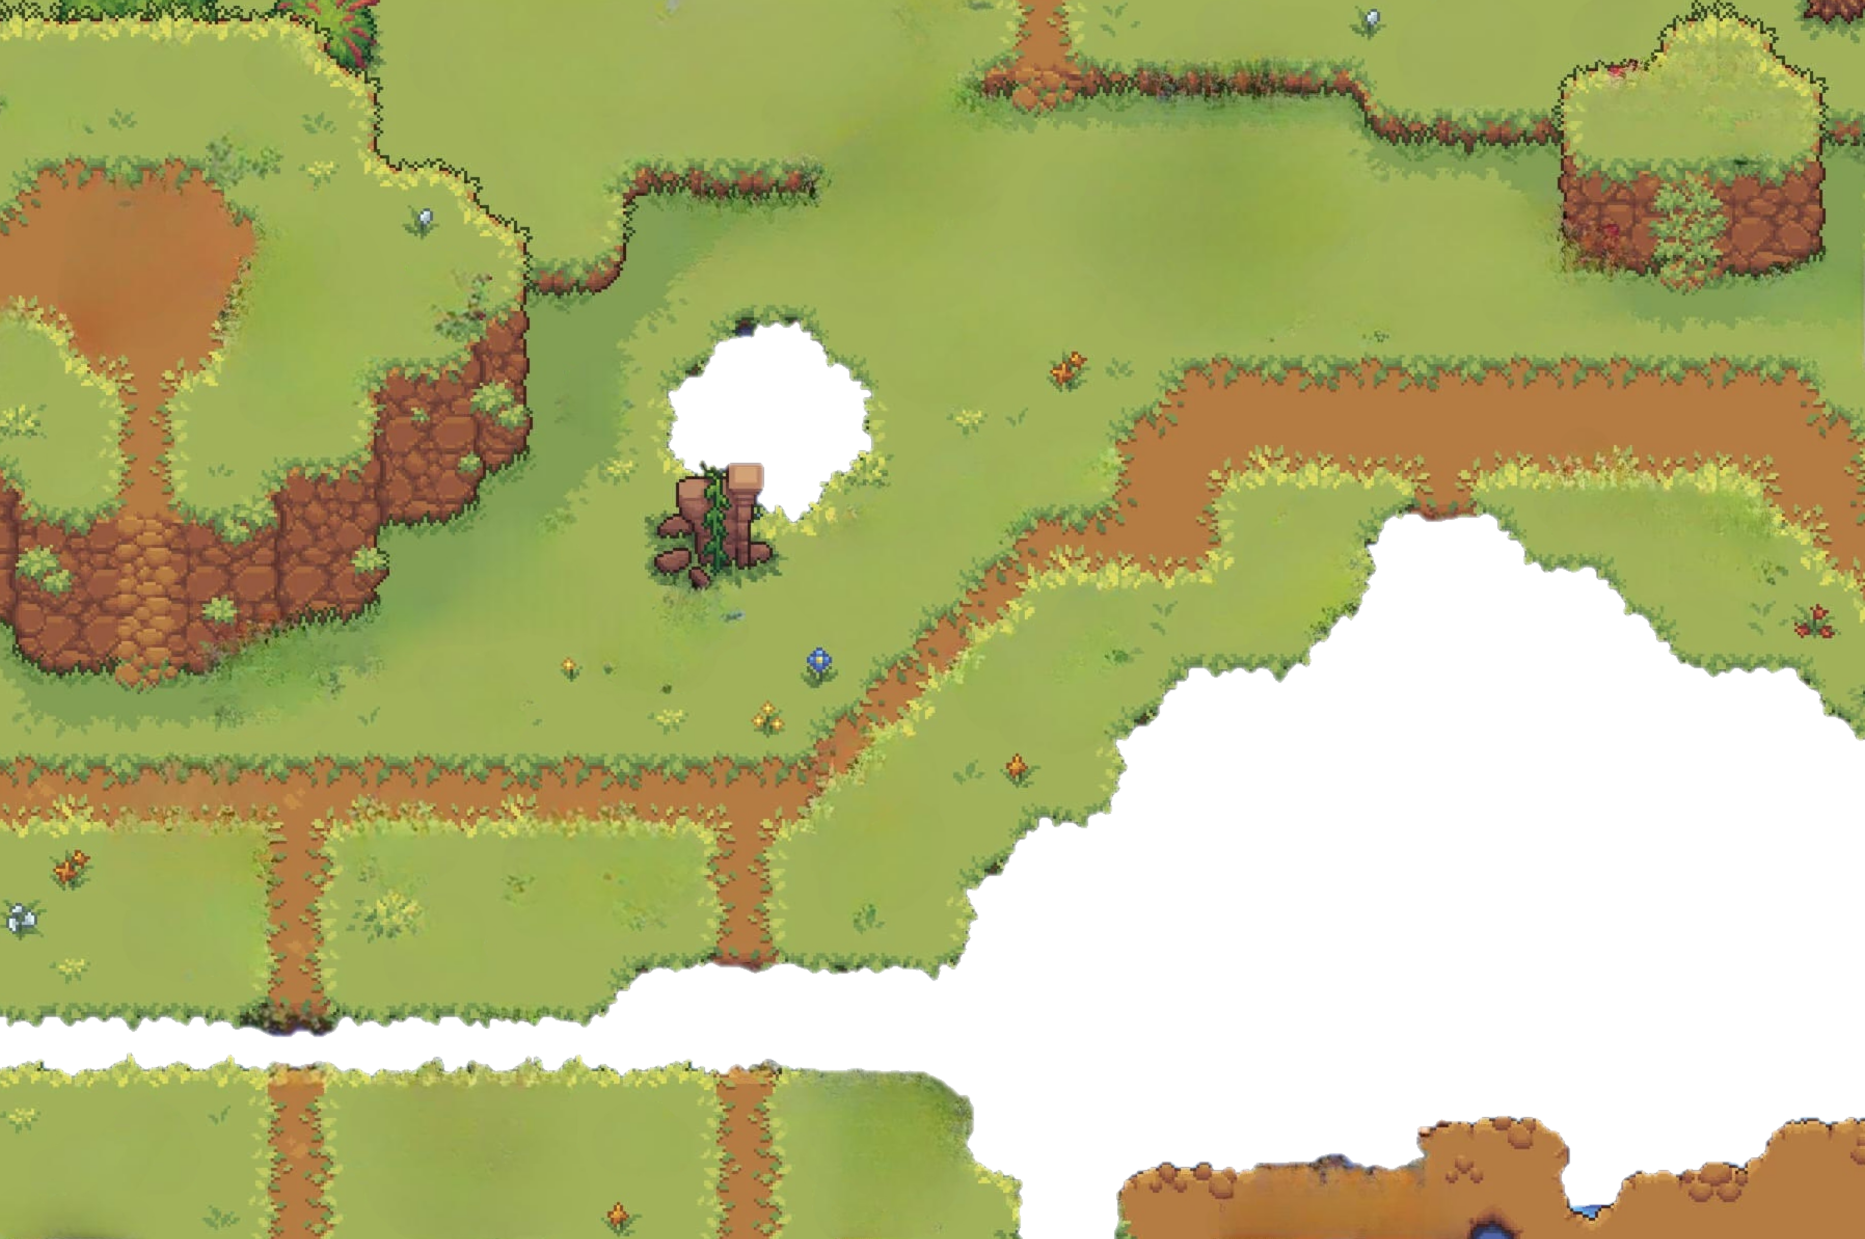
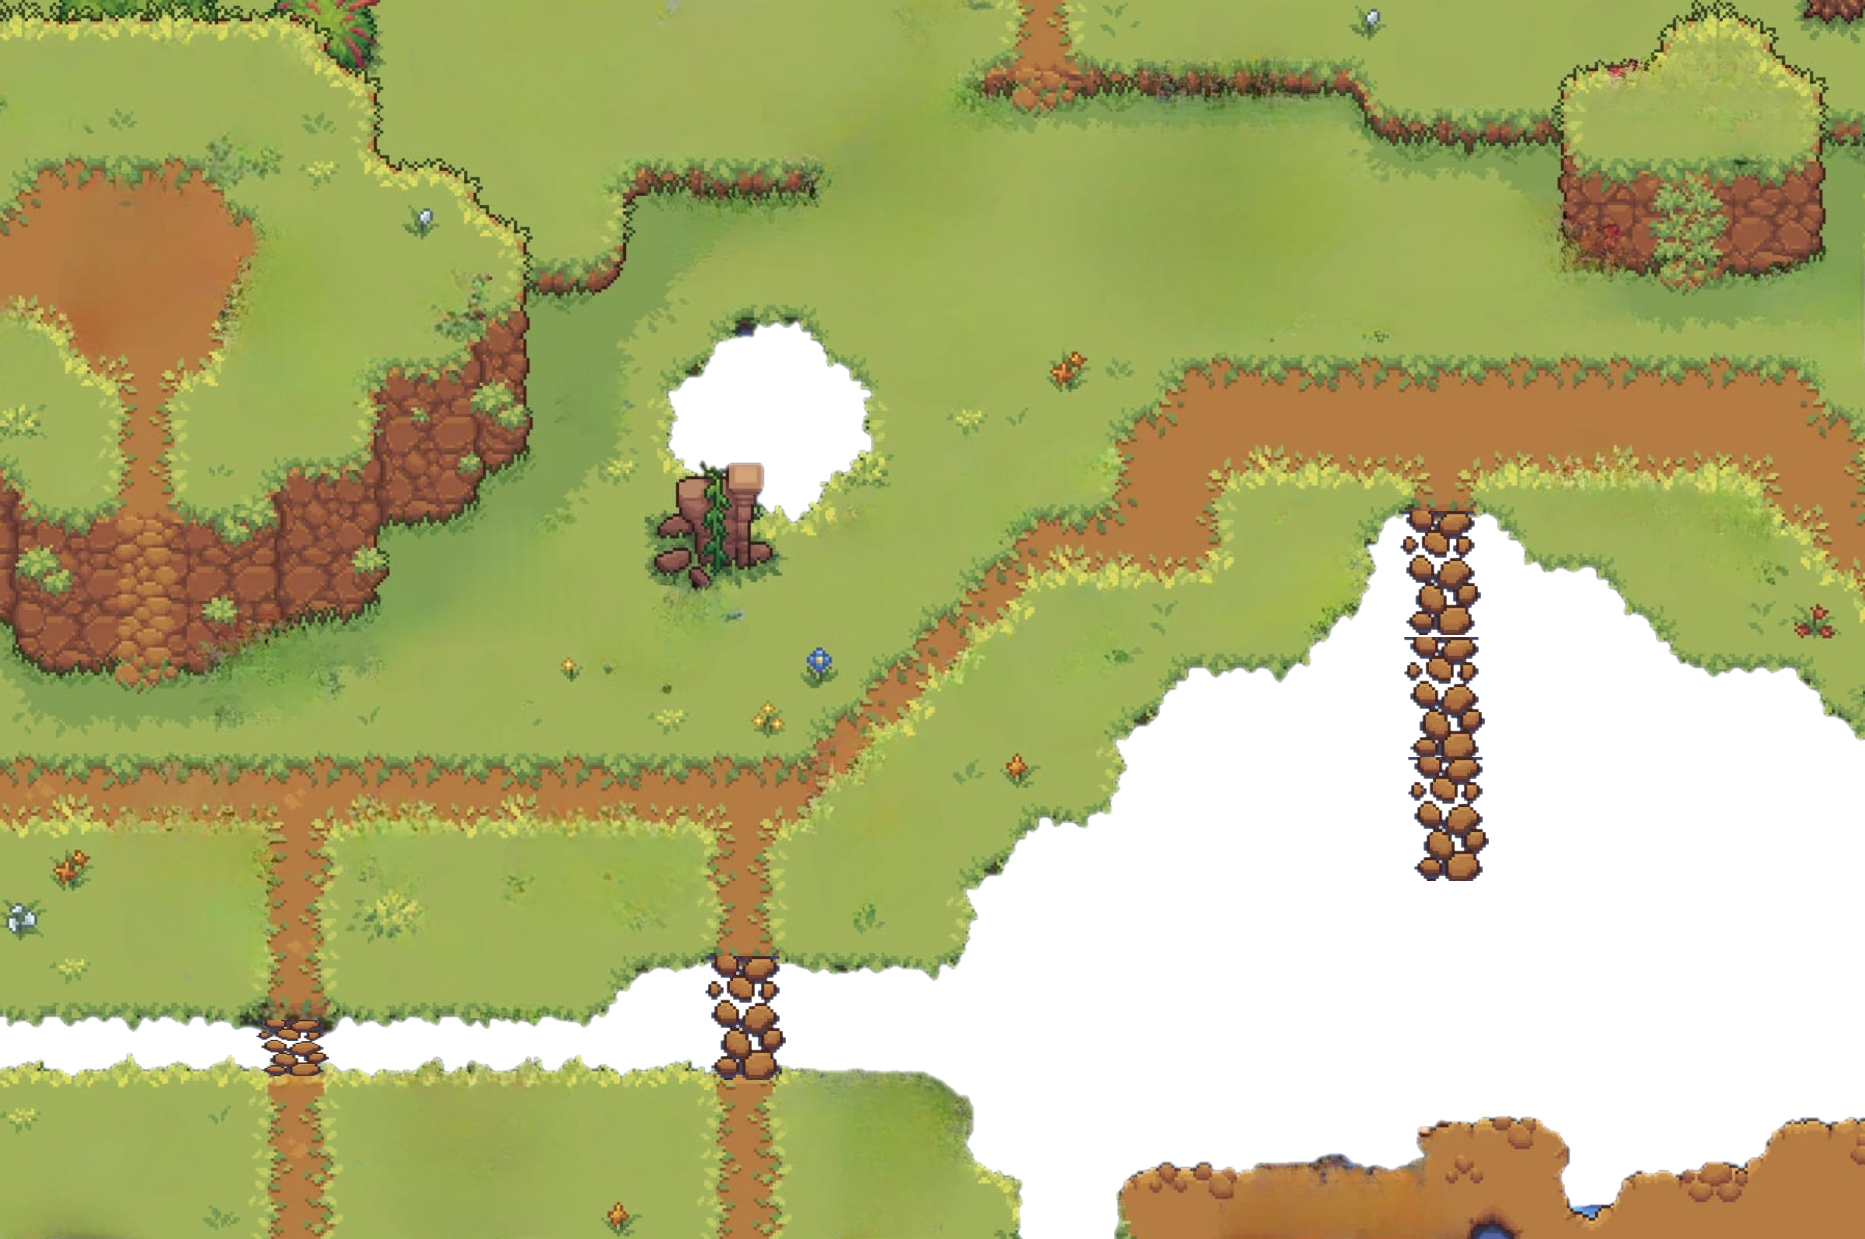
...

Changed region(s): [[0.7464, 0.3987, 0.8086, 0.7054], [0.3732, 0.7667, 0.4354, 0.8894], [0.1244, 0.8281, 0.1866, 0.8894]]

diff --git a/StardewValley/src/main/java/stardewValley/model/Foxy.java b/StardewValley/src/main/java/stardewValley/model/Foxy.java
@@ -376,16 +376,19 @@ public class Foxy {
             } else {
 
                 climbScene3();
-                diagonalCollisions();
+                diagonalCollisions3();
             }
         }
 
+        /*
         System.out.println("--------------------------");
         System.out.println("Position x:" + newX);
         System.out.println("Position y:" + newY);
         System.out.println("--------------------------");
         System.out.println("Canvas width:" + canvasWidth);
         System.out.println("Canvas height:" + canvasHeight);
+
+         */
 
         position.setX(newX);
         position.setY(newY);
@@ -462,6 +465,8 @@ public class Foxy {
 
         //Pared derecha del tunel para salir al escenario 1
         fromTo(0.7811197917, 0.7071759259,0.7811197917, 0.8680555556); //Vertical
+
+        collisions2();
     }
 
     //Este metodo es para cuando el canva cambie sus dimensiones (para que foxy no se mueva de posición)
@@ -545,11 +550,44 @@ public class Foxy {
         return s >= 0 && s <= 1 && t >= 0 && t <= 1;
     }
 
-    public void diagonalCollisions(){
+    public void collisions2(){
+
+        fromTo(0.234375, 0.6944444445, 0.2473958333, 0.601851852);
+        fromTo(0.2473958333, 0.601851852, 0.3059895833, 0.601851852);
+        fromTo(0.3059895833, 0.601851852, 0.3580729167, 0.613425926);
+        fromTo(0.3580729167, 0.613425926, 0.390625, 0.6365740742);
+        fromTo(0.390625, 0.6365740742, 0.390625, 0.6979166667);
+
+        //Table 1
+        //Diagonal inferior L
+        fromTo(0.5794270834, 0.5092592591, 0.60546875, 0.5902777776);
+        //Horizontal inferior L
+        fromTo(0.60546875, 0.5902777776, 0.6575520834, 0.5902777776);
+        //Diagonal inferior R
+        fromTo(0.6575520834, 0.5902777776, 0.68359375, 0.5439814813);
+        //Lateral R
+        fromTo(0.68359375, 0.5439814813, 0.68359375, 0.3009259258);
+        //Horizontal superior
+        fromTo(0.68359375, 0.3009259258, 0.5794270834, 0.3009259258);
+        //Lateral L
+        fromTo(0.5794270834, 0.3009259258, 0.5794270834, 0.5092592591);
+
+        //Tables 1 and 2
+        //Horizontal inferior
+        fromTo(0.8333333334, 0.659722222, 0.9440104167, 0.659722222);
+        //Horizontal superior
+        fromTo(0.8333333334, 0.3587962962, 0.9440104167, 0.3587962962);
+        //Lateral L
+        fromTo(0.8333333334, 0.659722222, 0.8333333334, 0.3587962962);
+        //Lateral R
+        fromTo(0.9440104167, 0.659722222, 0.9440104167, 0.3587962962);
+    }
+
+    public void diagonalCollisions3(){
         diagonalCollisionsBR();
         diagonalCollisionsSR();
         diagonalCollisionsMA();
-        horizontalCollisions();
+        horizontalCollisions3();
     }
 
     public void diagonalCollisionsBR() {
@@ -586,7 +624,7 @@ public class Foxy {
         fromTo(0.2220775463, 0.09837962979, 0.1634837963, 0);
     }
 
-    private void horizontalCollisions(){
+    private void horizontalCollisions3(){
         fromTo(0, 0.7523148146, 0.130931713, 0.7523148146);
         fromTo(0, 0.8101851852, 0.130931713, 0.8101851852);
 
@@ -605,8 +643,17 @@ public class Foxy {
         fromTo(0.8919270834, 0.4803240741, 1, 0.4803240741);
 
         fromTo(0.4231770834, 0.1041666666, 0.3190104167, 0.1041666666);
-        fromTo(0.2669270833
-                , 0.1736111111, 0.3190104167, 0.1736111111);
+        fromTo(0.2669270833, 0.1736111111, 0.3190104167, 0.1736111111);
+
+        //Piedras del río
+        fromTo(0.7747395834, 0.3530092593, 0.7747395834, 0.6539351852);
+        fromTo(0.736400463, 0.3530092593, 0.736400463, 0.6539351852);
+
+        fromTo(0.4075520833, 0.7175925923, 0.4075520833, 0.8101851852);
+        fromTo(0.3684895833, 0.7175925923, 0.3684895833, 0.8101851852);
+
+        fromTo(0.1666666666, 0.7638888889, 0.1666666666, 0.8101851852);
+        fromTo(0.1276041666, 0.7638888889, 0.1276041666, 0.8101851852);
     }
 
     public void setState2(int i){
@@ -663,5 +710,13 @@ public class Foxy {
 
     public void setToolDurability(int toolDurability) {
         this.toolDurability = toolDurability;
+    }
+
+    public double getFoxySizeH(){
+        return foxySizeH;
+    }
+
+    public double getFoxySizeW(){
+        return foxySizeW;
     }
 }

diff --git a/StardewValley/src/main/java/stardewValley/model/Obstacle.java b/StardewValley/src/main/java/stardewValley/model/Obstacle.java
@@ -92,8 +92,6 @@ public abstract class Obstacle {
 
             position2.setY(position.getY() + sizeH);
         }
-
-
     }
 
     protected void adjustSize2() {
@@ -134,5 +132,20 @@ public abstract class Obstacle {
 
     public boolean getCut(){
         return cut;
+    }
+
+    // Metodo para detectar si Foxy está dentro del cuadro imaginario
+    public boolean isFoxyInside(Position foxyPosition, double foxySizeW, double foxySizeH) {
+        return foxyPosition.getX() + foxySizeW > position.getX() && foxyPosition.getX() < position.getX() +
+                sizeW && foxyPosition.getY() + foxySizeH > position.getY() + (sizeH) && foxyPosition.getY() < position.getY() + (2 * sizeH);
+    }
+    // Metodo para manejar la acción de cortar/picar
+    public void handleCutting(Position foxyPosition, double foxySizeW, double foxySizeH, String tool) {
+        if (isFoxyInside(foxyPosition, foxySizeW, foxySizeH)) {
+            if (tool.equals("axe") || tool.equals("pickaxe")) {
+                this.cut = true;
+                System.out.println("The object has been cut!");
+            }
+        }
     }
 }

diff --git a/StardewValley/src/main/java/stardewValley/screens/ScreenA.java b/StardewValley/src/main/java/stardewValley/screens/ScreenA.java
@@ -65,6 +65,7 @@ public class ScreenA extends SceneBase {
         super.foxyRedraw();
         house.draw1();
         drawTree1();
+        checkForCutting();
         //trees.get(0).otherDraw();
     }
 
@@ -112,6 +113,16 @@ public class ScreenA extends SceneBase {
         for (Tree tree : trees) {
             if(!tree.getCut()){
                 tree.otherDraw2();
+            }
+        }
+    }
+
+    public void checkForCutting() {
+        for (Tree tree : trees) {
+            if (tree.isFoxyInside(foxy.getPosition(), foxy.getFoxySizeW(), foxy.getFoxySizeH())){
+                if(!tree.getCut()){
+                    System.out.println("Foxy Inside Tree");
+                }
             }
         }
     }

diff --git a/StardewValley/src/main/java/stardewValley/model/Pickaxe.java b/StardewValley/src/main/java/stardewValley/model/Pickaxe.java
@@ -4,8 +4,11 @@ import javafx.scene.canvas.Canvas;
 
 public class Pickaxe extends Obstacle {
 
+    private int durability;
+
     public Pickaxe(Canvas canvas, String basePath, double positionX, double positionY, double sW, double sH) {
         super(canvas, basePath, positionX, positionY, sW, sH);
+        this.durability = 100;
     }
 
     @Override
@@ -16,4 +19,8 @@ public class Pickaxe extends Obstacle {
 
     @Override
     public void otherDraw2(){}
+
+    public int getDurability() {
+        return durability;
+    }
 }

diff --git a/StardewValley/src/main/java/stardewValley/control/Controller.java b/StardewValley/src/main/java/stardewValley/control/Controller.java
@@ -78,7 +78,7 @@ public class Controller implements Initializable {
                     stoneLabel.setText("Stones: " + foxy.getStones());
                     woodLabel.setText("Wood: " + foxy.getWood());
                     foxyHealthLabel.setText("Health: " + foxy.getHealth() + "%");
-                    toolDurabilityLabel.setText("Durability: " + foxy.getToolDurability());
+                    toolDurabilityLabel.setText("Durability: " + foxy.getToolDurability() + "%");
                 });
 
                 try {

diff --git a/StardewValley/src/main/java/stardewValley/model/Axe.java b/StardewValley/src/main/java/stardewValley/model/Axe.java
@@ -4,8 +4,11 @@ import javafx.scene.canvas.Canvas;
 
 public class Axe extends Obstacle {
 
+    private double durability;
+
     public Axe(Canvas canvas, String basePath, double positionX, double positionY, double sW, double sH) {
         super(canvas, basePath, positionX, positionY, sW, sH);
+        this.durability = 100.0;
     }
 
     @Override

diff --git a/StardewValley/src/main/java/stardewValley/screens/ScreenC.java b/StardewValley/src/main/java/stardewValley/screens/ScreenC.java
@@ -166,6 +166,7 @@ public class ScreenC extends SceneBase{
             if(!foxy.getToolTaken()){
                 pAxT = true;
                 foxy.setToolTaken(true);
+                foxy.setToolDurability(pickaxe.getDurability());
                 foxy.setState2(6);
             }
         }
